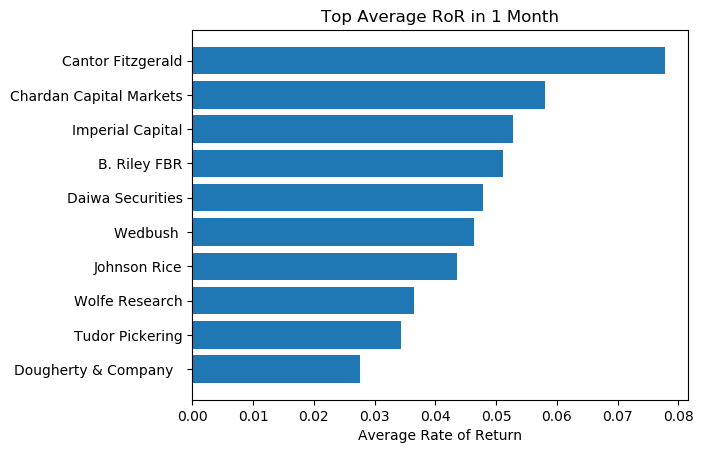
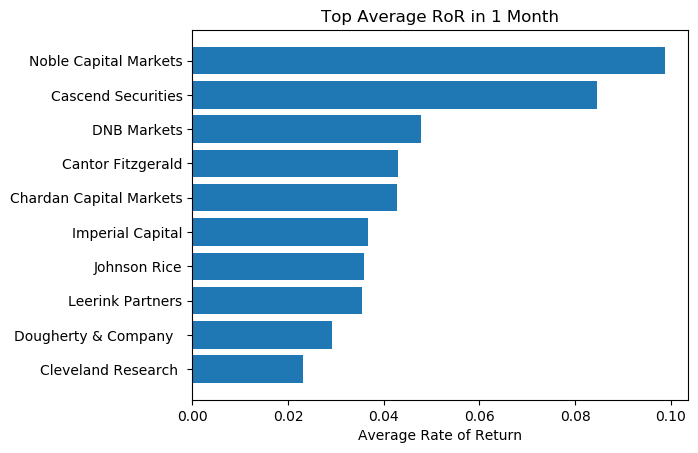
testing complete

diff --git a/main.py b/main.py
@@ -86,7 +86,7 @@ def main():
     recommendations_query = """
                     SELECT data_date, ticker, analyst, updown
                     FROM recommendations
-                    WHERE (updown = 'Upgrade ' OR updown = 'Downgrade') AND data_date >= '2018-07-18'
+                    WHERE (updown = 'Upgrade' OR updown = 'Downgrade') AND data_date >= '2018-07-18'
                     ORDER BY data_date ASC;
                     """
 
@@ -94,7 +94,7 @@ def main():
     # recommendations_query = """
     #                 SELECT data_date, ticker, analyst, updown
     #                 FROM recommendations
-    #                 WHERE (updown = 'Upgrade ' OR updown = 'Downgrade') AND data_date >= '2018-07-18' AND (analyst = 'Goldman' OR analyst = 'Barclays' OR analyst = 'Wells Fargo')
+    #                 WHERE (updown = 'Upgrade' OR updown = 'Downgrade') AND data_date >= '2018-07-18' AND analyst = 'Cantor Fitzgerald'
     #                 ORDER BY data_date ASC;
     #                 """
 
@@ -106,20 +106,20 @@ def main():
     count_query = """
                             SELECT COUNT(*) AS COUNT
                             FROM recommendations
-                            WHERE (updown = 'Upgrade ' OR updown = 'Downgrade') AND data_date >= '2018-07-18';
+                            WHERE (updown = 'Upgrade' OR updown = 'Downgrade') AND data_date >= '2018-07-18';
                             """
 
     # Small Sample Test
     # count_query = """
     #                         SELECT COUNT(*) AS COUNT
     #                         FROM recommendations
-    #                         WHERE (updown = 'Upgrade ' OR updown = 'Downgrade') AND data_date >= '2018-07-18' AND (analyst = 'Goldman' OR analyst = 'Barclays' OR analyst = 'Wells Fargo');
+    #                         WHERE (updown = 'Upgrade' OR updown = 'Downgrade') AND data_date >= '2018-07-18' AND analyst = 'Cantor Fitzgerald';
     #                         """
 
     cursor.execute(count_query)
     total_recommendations = cursor.fetchval()
 
-    chunksize = 1000
+    chunksize = 500
     iteration = 0
 
     # For each chunksize recommendations:
@@ -178,6 +178,9 @@ def main():
                         analyst_object.add_gross_profits_as_averaged_profits((twenty_business_days_rate_of_return,
                                                                               forty_business_days_rate_of_return,
                                                                               sixth_business_days__rate_of_return))
+
+                        # Test
+                        # print(str(previous_existing_day_date) + ", " + str(row_series["ticker"]) + ", " +  str(current_price) + ", " + str(business_day_20_price) + ", " + str(business_day_40_price) + ", " + str(business_day_60_price))
 
         # Get progress report in console
         percent_complete = np.round(iteration * chunksize / total_recommendations * 100, decimals=2)

diff --git a/analyst.py b/analyst.py
@@ -17,7 +17,7 @@ class analyst():
         count_query = """
                     SELECT COUNT(*) AS COUNT
                     FROM recommendations
-                    WHERE (updown = 'Upgrade ' OR updown = 'Downgrade') AND data_date >= '2018-07-18' AND analyst = ?;
+                    WHERE (updown = 'Upgrade' OR updown = 'Downgrade') AND data_date >= '2018-07-18' AND analyst = ?;
                     """
         cursor.execute(count_query, (self.name,))
 
